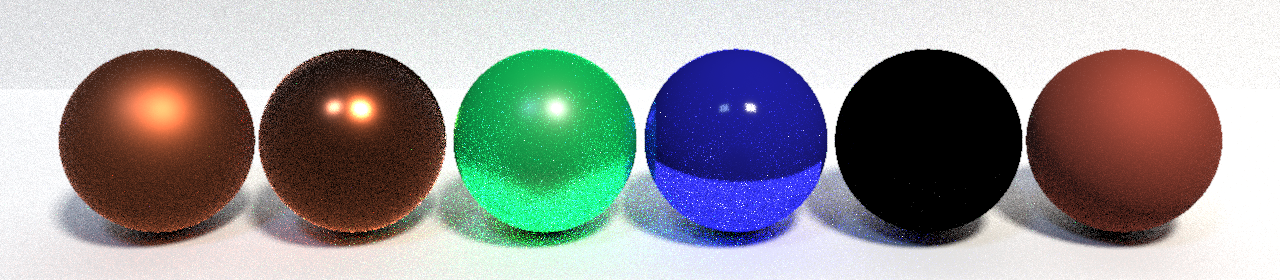
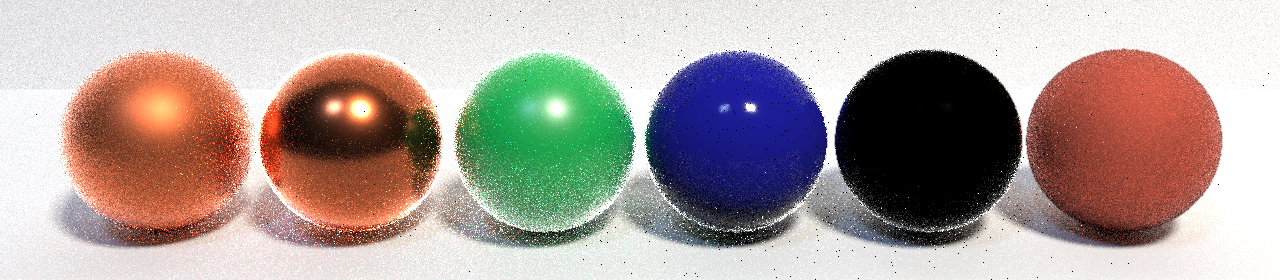
Metallic sphere looking much better after fixing Fresnel term

diff --git a/src/raytracer.cpp b/src/raytracer.cpp
@@ -1059,7 +1059,7 @@ glm::vec3 PathTracerFindColor(UniformGrid* grid, const Ray& ray, Scene* scene, C
 					float G_L = NdotL / (NdotL * (1 - k) + k);
 					float G = G_V * G_L;
 					glm::vec3 F0 = intersection.hitObjectSpecular;
-					glm::vec3 F = F0 + (glm::vec3(1.0f) - F0) * glm::pow(1.0f - VdotH, 5.0f) * F0;
+					glm::vec3 F = F0 + (glm::vec3(1.0f) - F0) * glm::pow(1.0f - VdotH, 5.0f);
 					brdf = (intersection.hitObjectDiffuse / (float)M_PI) + (D * G * F) / (4.0f * NdotL * NdotV + 1e-6f);
 				}
 				float G = (1.0f / glm::pow(glm::length(sampleLightPoint - intersection.intersectionPoint), 2.0f)) * std::max(glm::dot(intersection.hitObjectNormal, dir), 0.0f) * std::max(glm::dot(lightNormal, dir), 0.0f);
@@ -1097,11 +1097,8 @@ glm::vec3 PathTracerFindColor(UniformGrid* grid, const Ray& ray, Scene* scene, C
 	Intersection secondaryIntersection = FindIntersection(grid, scene, secondaryRay, false);
 	glm::vec3 wo = glm::normalize(ray.origin - intersection.intersectionPoint);
 	glm::vec3 wi = glm::normalize(w_i);
-
 	glm::vec3 R = glm::reflect(-wo, intersection.hitObjectNormal);
 	float spec = std::pow(std::max(glm::dot(R, wi), 0.0f), intersection.hitObjectShininess);
-
-
 	float pdf = 0.0f;
 	//float cosTheta = std::max(glm::dot(intersection.hitObjectNormal, wi), 0.0f);
 	glm::vec3 brdf;
@@ -1110,8 +1107,8 @@ glm::vec3 PathTracerFindColor(UniformGrid* grid, const Ray& ray, Scene* scene, C
 	float xi2 = RandFloat();
 	float pdf_ggx;
 	glm::vec3 halfVector;
-	float DNumerator;
-	float DDenominator;
+	float DNumerator = 0.1f;
+	float DDenominator = 0.1f;
 
 	if (importanceSampling == "hemisphere")
 	{
@@ -1227,84 +1224,12 @@ glm::vec3 PathTracerFindColor(UniformGrid* grid, const Ray& ray, Scene* scene, C
 
 			float t = glm::max(0.25f, ks_avg / (ks_avg + kd_avg + 1e-6f));
 
-			float fresnelR = intersection.hitObjectSpecular.r + (1.0f - intersection.hitObjectSpecular.r) * glm::pow(1.0f - glm::dot(intersection.hitObjectNormal, wi), 5.0f);
-			float fresnelG = intersection.hitObjectSpecular.g + (1.0f - intersection.hitObjectSpecular.g) * glm::pow(1.0f - glm::dot(intersection.hitObjectNormal, wi), 5.0f);
-			float fresnelB = intersection.hitObjectSpecular.b + (1.0f - intersection.hitObjectSpecular.b) * glm::pow(1.0f - glm::dot(intersection.hitObjectNormal, wi), 5.0f);
 
-			glm::vec3 fresnel = glm::vec3(fresnelR, fresnelG, fresnelB);
-
-
-			float phi_h = 2.0f * (float)M_PI * xi2;
-			float microfacetTheta = glm::atan((intersection.hitObjectRoughness * glm::sqrt(xi1)) / glm::sqrt(1.0f - xi1));
-
-			glm::vec3 h = glm::vec3(
-				glm::cos(phi_h) * glm::sin(microfacetTheta),
-				glm::sin(phi_h) * glm::sin(microfacetTheta),
-				glm::cos(microfacetTheta)
-			);
-
-			glm::vec3 s = glm::vec3(0.0f);
-			s.x = glm::cos(phi_h) * glm::sin(microfacetTheta);
-			s.y = glm::sin(phi_h) * glm::sin(microfacetTheta);
-			s.z = glm::cos(microfacetTheta);
-
-			glm::vec3 w = glm::normalize(h);
-			glm::vec3 helper = (std::abs(w.y) < 0.999f) ? glm::vec3(0, 1, 0) : glm::vec3(1, 0, 0);
-			glm::vec3 u = glm::normalize(glm::cross(helper, w));
-			glm::vec3 v = glm::cross(w, u);
-
-			w_i = s.x * u + s.y * v + s.z * w;
-
-			wi = glm::normalize(w_i);
-			wo = glm::normalize(ray.origin - intersection.intersectionPoint);
-			halfVector = glm::normalize(wi + wo);
-
-			float theta_h = glm::acos(glm::dot(halfVector, intersection.hitObjectNormal));
-
-			DNumerator = (glm::pow(intersection.hitObjectRoughness, 2.0f));
-			DDenominator = ((float)M_PI * glm::pow(glm::cos(theta_h), 4.0f)) * glm::pow((glm::pow(intersection.hitObjectRoughness, 2.0f) + glm::pow(glm::tan(theta_h), 2.0f)), 2.0f);
-
-			float theta_v = glm::acos(glm::dot(glm::normalize(wo), intersection.hitObjectNormal));
-
-			float Gv;
-
-			if (glm::dot(glm::normalize(wo), intersection.hitObjectNormal) > 0)
-			{
-				Gv = (2) / (1 + (glm::sqrt(1 + (glm::pow(intersection.hitObjectRoughness, 2.0f) * glm::pow(glm::tan(theta_v), 2.0f)))));
-			}
-			else
-			{
-				Gv = 0.0f;
-			}
-
-			float theta_l = glm::acos(glm::dot(glm::normalize(wi), intersection.hitObjectNormal));
-
-
-			float Gv2;
-
-			if (glm::dot(glm::normalize(wi), intersection.hitObjectNormal) > 0)
-			{
-				Gv2 = (2) / (1 + (glm::sqrt(1 + (glm::pow(intersection.hitObjectRoughness, 2.0f) * glm::pow(glm::tan(theta_l), 2.0f)))));
-			}
-			else
-			{
-				Gv2 = 0.0f;
-			}
-
-			glm::vec3 fGGX = ((DNumerator / DDenominator) * fresnel * (Gv * Gv2)) / (4.0f * glm::dot(wi, intersection.hitObjectNormal) * glm::dot(wo, intersection.hitObjectNormal));
-
-			if (glm::dot(wi, intersection.hitObjectNormal) <= 0 || glm::dot(wo, intersection.hitObjectNormal) <= 0)
-			{
-				fGGX = glm::vec3(0.0f);
-			}
-
-			pdf_ggx = (1 - t) * (glm::dot(intersection.hitObjectNormal, wi) / (float)M_PI) + t * ((DNumerator / DDenominator) * (glm::dot(intersection.hitObjectNormal, halfVector)) / (4.0f * glm::dot(halfVector, wi)));
 
 
 			if (xi0 <= pSpec)
 			{
 
-				float cosTheta = std::max(glm::dot(intersection.hitObjectNormal, wi), 0.0f);
 				float kdAvg = (intersection.hitObjectDiffuse.r + intersection.hitObjectDiffuse.g + intersection.hitObjectDiffuse.b) / 3.0f;
 				float ksAvg = (intersection.hitObjectSpecular.r + intersection.hitObjectSpecular.g + intersection.hitObjectSpecular.b) / 3.0f;
 				float sum = kdAvg + ksAvg;
@@ -1313,12 +1238,12 @@ glm::vec3 PathTracerFindColor(UniformGrid* grid, const Ray& ray, Scene* scene, C
 
 				float t = glm::max(0.25f, ksAvg / (ksAvg + kdAvg));
 
-				float phi = 2.0f * (float)M_PI * xi2;
+				float phi_h = 2.0f * (float)M_PI * xi2;
 				float microfacetTheta = glm::atan((intersection.hitObjectRoughness * glm::sqrt(xi1)) / glm::sqrt(1.0f - xi1));
 
 				glm::vec3 h = glm::vec3(0.0f);
-				h.x = glm::cos(phi) * glm::sin(microfacetTheta);
-				h.y = glm::sin(phi) * glm::sin(microfacetTheta);
+				h.x = glm::cos(phi_h) * glm::sin(microfacetTheta);
+				h.y = glm::sin(phi_h) * glm::sin(microfacetTheta);
 				h.z = glm::cos(microfacetTheta);
 
 				glm::vec3 w = glm::normalize(intersection.hitObjectNormal);
@@ -1326,15 +1251,74 @@ glm::vec3 PathTracerFindColor(UniformGrid* grid, const Ray& ray, Scene* scene, C
 				glm::vec3 u = glm::normalize(glm::cross(helper, w));
 				glm::vec3 v = glm::cross(w, u);
 
-				h = s.x * u + s.y * v + s.z * w;
+				h = glm::normalize(h.x * u + h.y * v + h.z * w);
 
-				wo = glm::normalize(ray.origin - intersection.intersectionPoint);
-				glm::vec3 wi = glm::reflect(-wo, h);
+				glm::vec3 wo = glm::normalize(ray.origin - intersection.intersectionPoint);
+				wi = glm::reflect(-wo, h);
 				w_i = wi;
+				float cosTheta = std::max(glm::dot(intersection.hitObjectNormal, wi), 0.0f);
+
+				halfVector = glm::normalize(wi + wo);
+
+				float fresnelR = intersection.hitObjectSpecular.r + (1.0f - intersection.hitObjectSpecular.r) * glm::pow(1.0f - glm::dot(wi, h), 5.0f);
+				float fresnelG = intersection.hitObjectSpecular.g + (1.0f - intersection.hitObjectSpecular.g) * glm::pow(1.0f - glm::dot(wi, h), 5.0f);
+				float fresnelB = intersection.hitObjectSpecular.b + (1.0f - intersection.hitObjectSpecular.b) * glm::pow(1.0f - glm::dot(wi, h), 5.0f);
+
+				glm::vec3 fresnel = glm::vec3(fresnelR, fresnelG, fresnelB);
+
 
 				float D;
 				float pdf;
+				halfVector = glm::normalize(wi + wo);
 				EvaluateGGX(intersection.hitObjectRoughness, intersection.hitObjectNormal, halfVector, D, pdf, t, wi);
+
+
+				float theta_h = glm::acos(glm::dot(halfVector, intersection.hitObjectNormal));
+
+				DNumerator = (glm::pow(intersection.hitObjectRoughness, 2.0f));
+				DDenominator = ((float)M_PI * glm::pow(glm::cos(theta_h), 4.0f)) * glm::pow((glm::pow(intersection.hitObjectRoughness, 2.0f) + glm::pow(glm::tan(theta_h), 2.0f)), 2.0f);
+
+				float theta_v = glm::acos(glm::dot(glm::normalize(wo), intersection.hitObjectNormal));
+
+				float Gv;
+
+				if (glm::dot(glm::normalize(wo), intersection.hitObjectNormal) > 0)
+				{
+					Gv = (2) / (1 + (glm::sqrt(1 + (glm::pow(intersection.hitObjectRoughness, 2.0f) * glm::pow(glm::tan(theta_v), 2.0f)))));
+				}
+				else
+				{
+					Gv = 0.0f;
+				}
+
+				float theta_l = glm::acos(glm::dot(glm::normalize(wi), intersection.hitObjectNormal));
+
+
+				float Gv2;
+
+				if (glm::dot(glm::normalize(wi), intersection.hitObjectNormal) > 0)
+				{
+					Gv2 = (2) / (1 + (glm::sqrt(1 + (glm::pow(intersection.hitObjectRoughness, 2.0f) * glm::pow(glm::tan(theta_l), 2.0f)))));
+				}
+				else
+				{
+					Gv2 = 0.0f;
+				}
+
+
+
+				glm::vec3 fGGX = ((DNumerator / DDenominator) * fresnel * (Gv * Gv2)) / (4.0f * glm::dot(wi, intersection.hitObjectNormal) * glm::dot(wo, intersection.hitObjectNormal));
+
+				if (glm::dot(wi, intersection.hitObjectNormal) <= 0 || glm::dot(wo, intersection.hitObjectNormal) <= 0)
+				{
+					fGGX = glm::vec3(0.0f);
+				}
+
+				EvaluateGGX(intersection.hitObjectRoughness, intersection.hitObjectNormal, halfVector, D, pdf, t, wi);
+				pdf_ggx = (1 - t) * (glm::dot(intersection.hitObjectNormal, wi) / (float)M_PI) + t * D * (glm::dot(intersection.hitObjectNormal, halfVector)) / (4.0f * glm::dot(halfVector, wi));
+
+				secondaryRay = Ray(intersection.intersectionPoint + intersection.hitObjectNormal * 0.001f, glm::normalize(w_i));
+				secondaryIntersection = FindIntersection(grid, scene, secondaryRay, false);
 
 				brdf = fGGX +
 					(intersection.hitObjectDiffuse / (float)M_PI);
@@ -1362,14 +1346,77 @@ glm::vec3 PathTracerFindColor(UniformGrid* grid, const Ray& ray, Scene* scene, C
 				glm::vec3 uN = glm::normalize(glm::cross(helperN, n));
 				glm::vec3 vN = glm::cross(n, uN);
 
-			//	w_i = glm::normalize(localDir.x * uN + localDir.y * vN + localDir.z * n);
+				w_i = glm::normalize(localDir.x * uN + localDir.y * vN + localDir.z * n);
 
-				w_i = s.x * uN + s.y * vN + s.z * n;
 
 				secondaryRay = Ray(intersection.intersectionPoint + intersection.hitObjectNormal * 0.001f, glm::normalize(w_i));
 				secondaryIntersection = FindIntersection(grid, scene, secondaryRay, false);
 				wo = glm::normalize(ray.origin - intersection.intersectionPoint);
 				wi = glm::normalize(w_i);
+
+				float phi_h = 2.0f * (float)M_PI * xi2;
+				float microfacetTheta = glm::atan((intersection.hitObjectRoughness * glm::sqrt(xi1)) / glm::sqrt(1.0f - xi1));
+
+				glm::vec3 h = glm::vec3(0.0f);
+				h.x = glm::cos(phi) * glm::sin(microfacetTheta);
+				h.y = glm::sin(phi) * glm::sin(microfacetTheta);
+				h.z = glm::cos(microfacetTheta);
+
+				glm::vec3 w = glm::normalize(intersection.hitObjectNormal);
+				glm::vec3 helper = (std::abs(w.y) < 0.999f) ? glm::vec3(0, 1, 0) : glm::vec3(1, 0, 0);
+				glm::vec3 u = glm::normalize(glm::cross(helper, w));
+				glm::vec3 v = glm::cross(w, u);
+
+				h = glm::normalize(h.x * u + h.y * v + h.z * w);
+
+				wo = glm::normalize(ray.origin - intersection.intersectionPoint);
+				wi = glm::reflect(-wo, h);
+				w_i = wi;
+				cosTheta = std::max(glm::dot(intersection.hitObjectNormal, wi), 0.0f);
+
+				halfVector = glm::normalize(wi + wo);
+
+				float fresnelR = intersection.hitObjectSpecular.r + (1.0f - intersection.hitObjectSpecular.r) * glm::pow(1.0f - glm::dot(wi, h), 5.0f);
+				float fresnelG = intersection.hitObjectSpecular.g + (1.0f - intersection.hitObjectSpecular.g) * glm::pow(1.0f - glm::dot(wi, h), 5.0f);
+				float fresnelB = intersection.hitObjectSpecular.b + (1.0f - intersection.hitObjectSpecular.b) * glm::pow(1.0f - glm::dot(wi, h), 5.0f);
+
+				glm::vec3 fresnel = glm::vec3(fresnelR, fresnelG, fresnelB);
+
+				float Gv;
+
+				float theta_v = glm::acos(glm::dot(glm::normalize(wo), intersection.hitObjectNormal));
+
+
+				if (glm::dot(glm::normalize(wo), intersection.hitObjectNormal) > 0)
+				{
+					Gv = (2) / (1 + (glm::sqrt(1 + (glm::pow(intersection.hitObjectRoughness, 2.0f) * glm::pow(glm::tan(theta_v), 2.0f)))));
+				}
+				else
+				{
+					Gv = 0.0f;
+				}
+
+				float theta_l = glm::acos(glm::dot(glm::normalize(wi), intersection.hitObjectNormal));
+
+
+				float Gv2;
+
+				if (glm::dot(glm::normalize(wi), intersection.hitObjectNormal) > 0)
+				{
+					Gv2 = (2) / (1 + (glm::sqrt(1 + (glm::pow(intersection.hitObjectRoughness, 2.0f) * glm::pow(glm::tan(theta_l), 2.0f)))));
+				}
+				else
+				{
+					Gv2 = 0.0f;
+				}
+
+				glm::vec3 fGGX = ((DNumerator / DDenominator) * fresnel * (Gv * Gv2)) / (4.0f * glm::dot(wi, intersection.hitObjectNormal) * glm::dot(wo, intersection.hitObjectNormal));
+
+				if (glm::dot(wi, intersection.hitObjectNormal) <= 0 || glm::dot(wo, intersection.hitObjectNormal) <= 0)
+				{
+					fGGX = glm::vec3(0.0f);
+				}
+				
 
 				brdf =
 					(intersection.hitObjectDiffuse / (float)M_PI) + fGGX;
@@ -1441,14 +1488,14 @@ glm::vec3 PathTracerFindColor(UniformGrid* grid, const Ray& ray, Scene* scene, C
 				h = s.x * u + s.y * v + s.z * w;
 
 				wo = glm::normalize(ray.origin - intersection.intersectionPoint);
-				glm::vec3 wi = glm::reflect(-wo, h);
+				wi = glm::reflect(-wo, h);
 				w_i = wi;
 
 				float D;
 				float pdf;
 				EvaluateGGX(intersection.hitObjectRoughness, intersection.hitObjectNormal, halfVector, D, pdf, t, wi);
 
-				throughput *= brdf * cosTheta / pdf;
+				throughput *= brdf / pdf;
 			}
 		}
 
@@ -1464,10 +1511,7 @@ glm::vec3 PathTracerFindColor(UniformGrid* grid, const Ray& ray, Scene* scene, C
 		}
 	}
 
-	return accumCol += PathTracerFindColor(grid, secondaryRay, scene, camera, depth + 1, samples, stratify, secondaryIntersection, useNEE, useRR, throughput, importanceSampling, intersection.brdf);
-
-
-
+	return accumCol += PathTracerFindColor(grid, secondaryRay, scene, camera, depth + 1, samples, stratify, secondaryIntersection, useNEE, useRR, throughput, importanceSampling, secondaryIntersection.brdf);
 
 }
 
